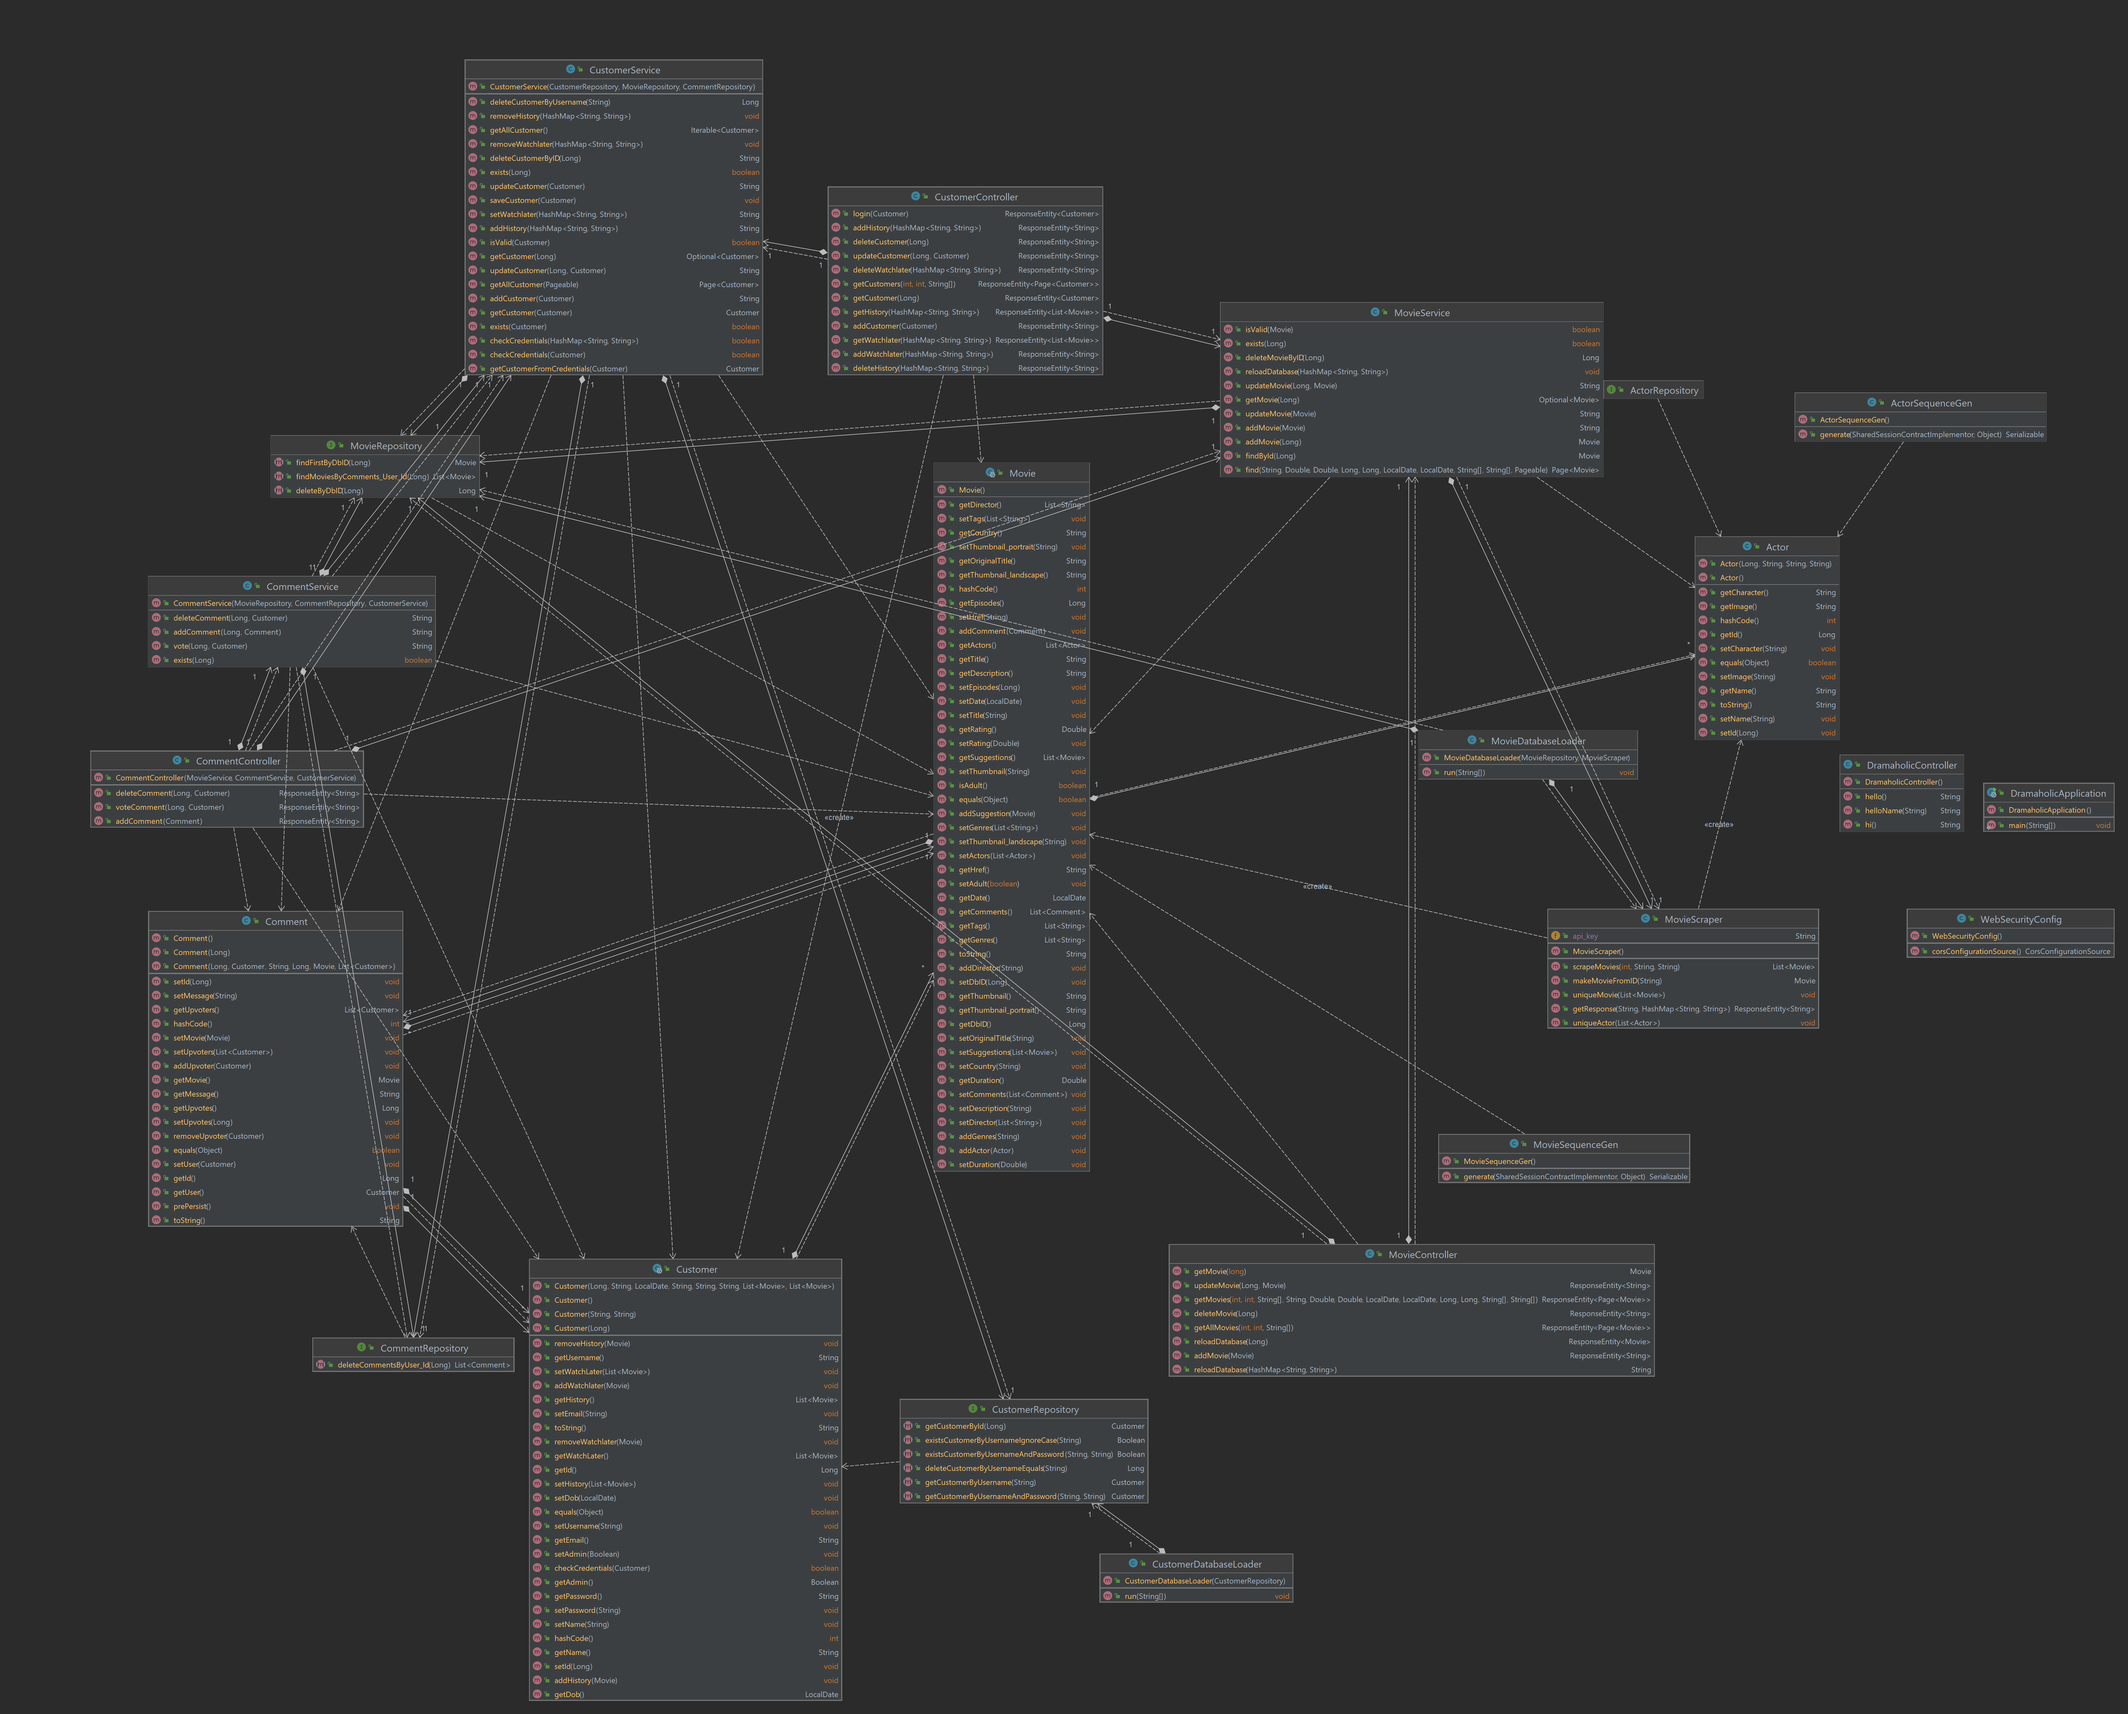
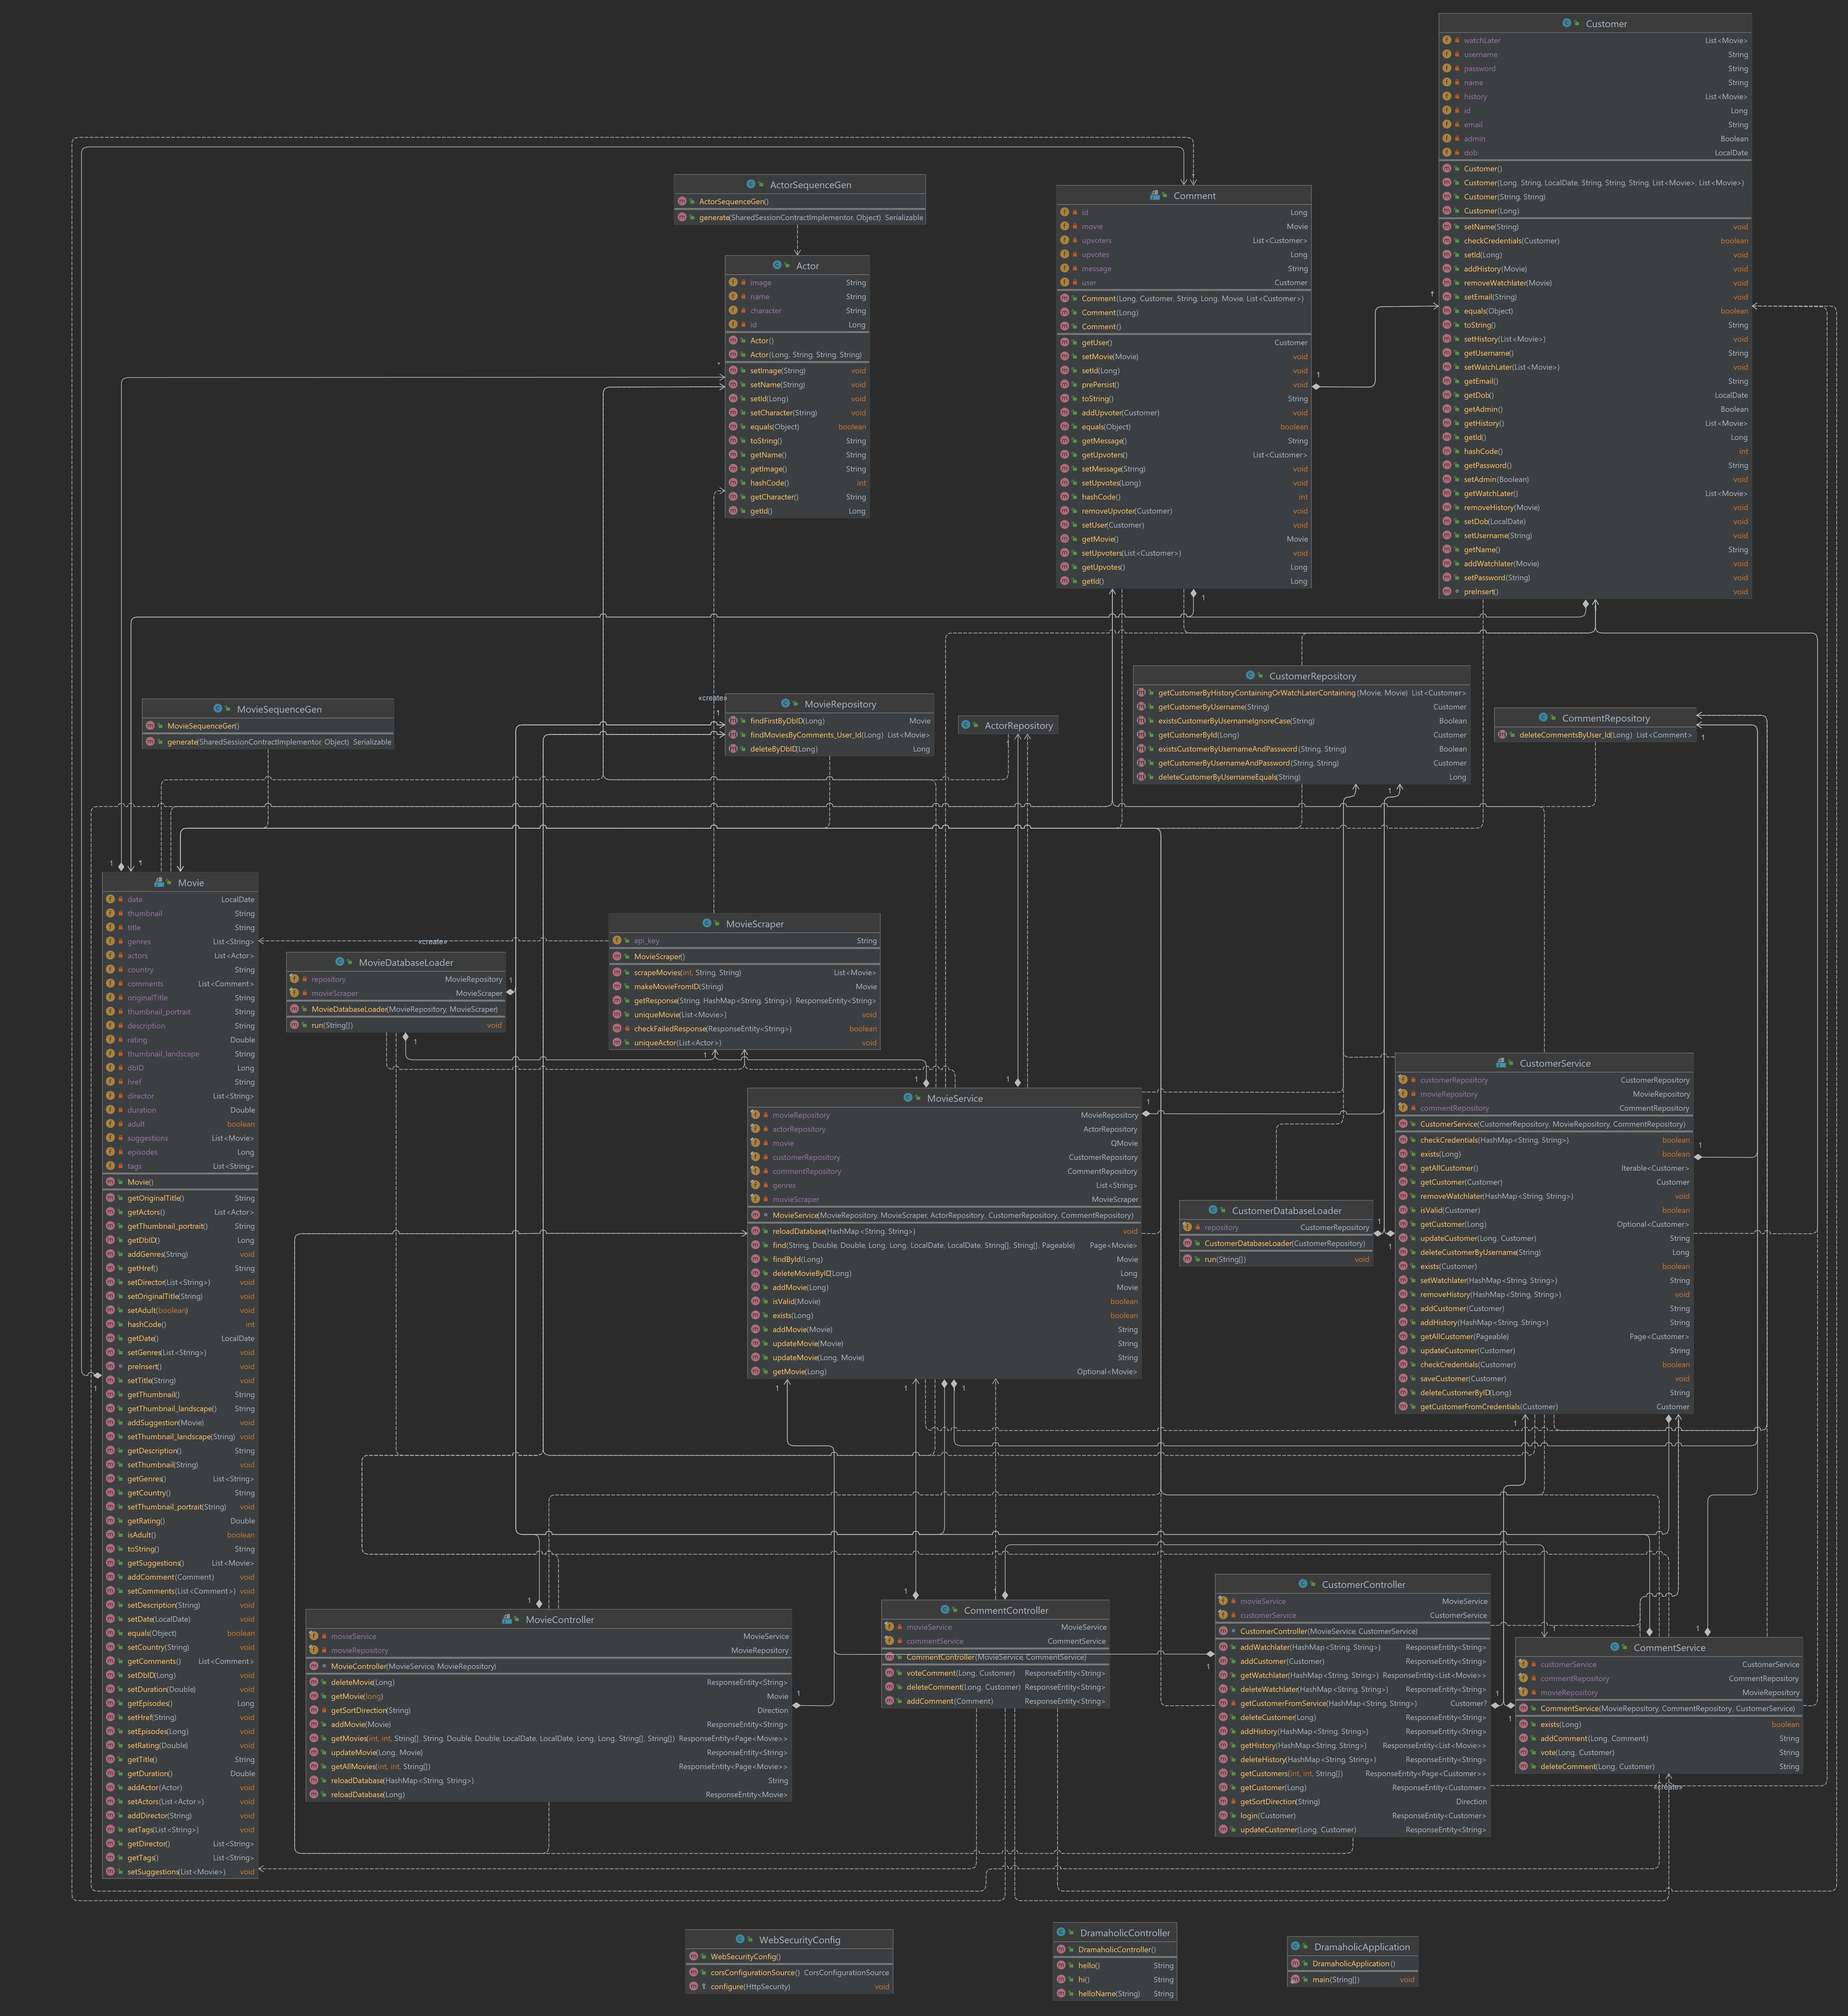
UN-37
final final real

diff --git a/README.md b/README.md
@@ -1,2 +1,112 @@
-try finger
-but hole
+added Comment for Movie
+usage:
+
+# add comment:
+
+POST /api/comments
+
+body:
+{
+"message":"cool movie",
+"user":{
+"username":"william2",
+"password":"12345"
+},
+"movie":{
+"dbID":"99966"
+}
+}
+
+# vote comment:
+
+POST api/comments/{id}/vote
+
+{
+"username":"zerbra",
+"password":"123321"
+}
+
+# delete comment:
+
+DELETE api/comments/{id}
+
+{
+"username":"william2",
+"password":"12345"
+}
+
+# login:
+
+POST /api/customers/login
+
+USES APPLICATION/JSON HEADER
+
+tries to login using provided credentials
+
+returns an id for that user, used for below customer apis
+
+* username
+* password
+
+# PUT /api/customers/{id}
+
+USE APPLICATION/JSON
+
+# DELETE /api/customers/{id}
+
+self explanatory
+
+# GET /api/customers/{id}
+
+get single customer
+
+# GET /api/customers/watchlater
+
+# GET /api/customers/history
+
+self explanatory
+
+USE APPLICATION/JSON
+
+MUST HAVE USERNAME & PASSWORD IN BODY
+
+# POST /api/customers/watchlater
+
+# POST /api/customers/history
+
+include attribute “dbID” in body to add to watchlater or history
+
+HISTORY ONLY SAVES 10 LATEST MOVIES
+
+# DELETE /api/customers/watchlater
+
+# DELETE /api/customers/history
+
+self explanatory, same params as above
+
+# GET /api/movies/search params:
+* title: search via regrex, case insensitive
+
+* episodesLTE: search for shows with less or equal episodes
+
+* episodesGT: search for shows with greater or equal episodes
+
+* rateGT/rateLTE: see above, for rating
+* 
+* dateGT/dateLTE: see above, for date (yyyy-mm-dd)
+
+* sort: in the form of [{attrib1,dir1}, {attrib2, dir2}, …]
+
+* * attrib: attribute of a movie
+
+* * dir: direction of sort (asc/desc)
+
+* page: index of page to show
+
+* size: size of each page
+
+Example:
+https://dramaholic.herokuapp.com/api/movies/search?sort=rating,desc&page=0&title=all of us&episodesLTE=12
+
+will search for all shows on the first page, with the title “all of us”, that has 12 or less episodes, sorted by rating from highest to lowest
+
